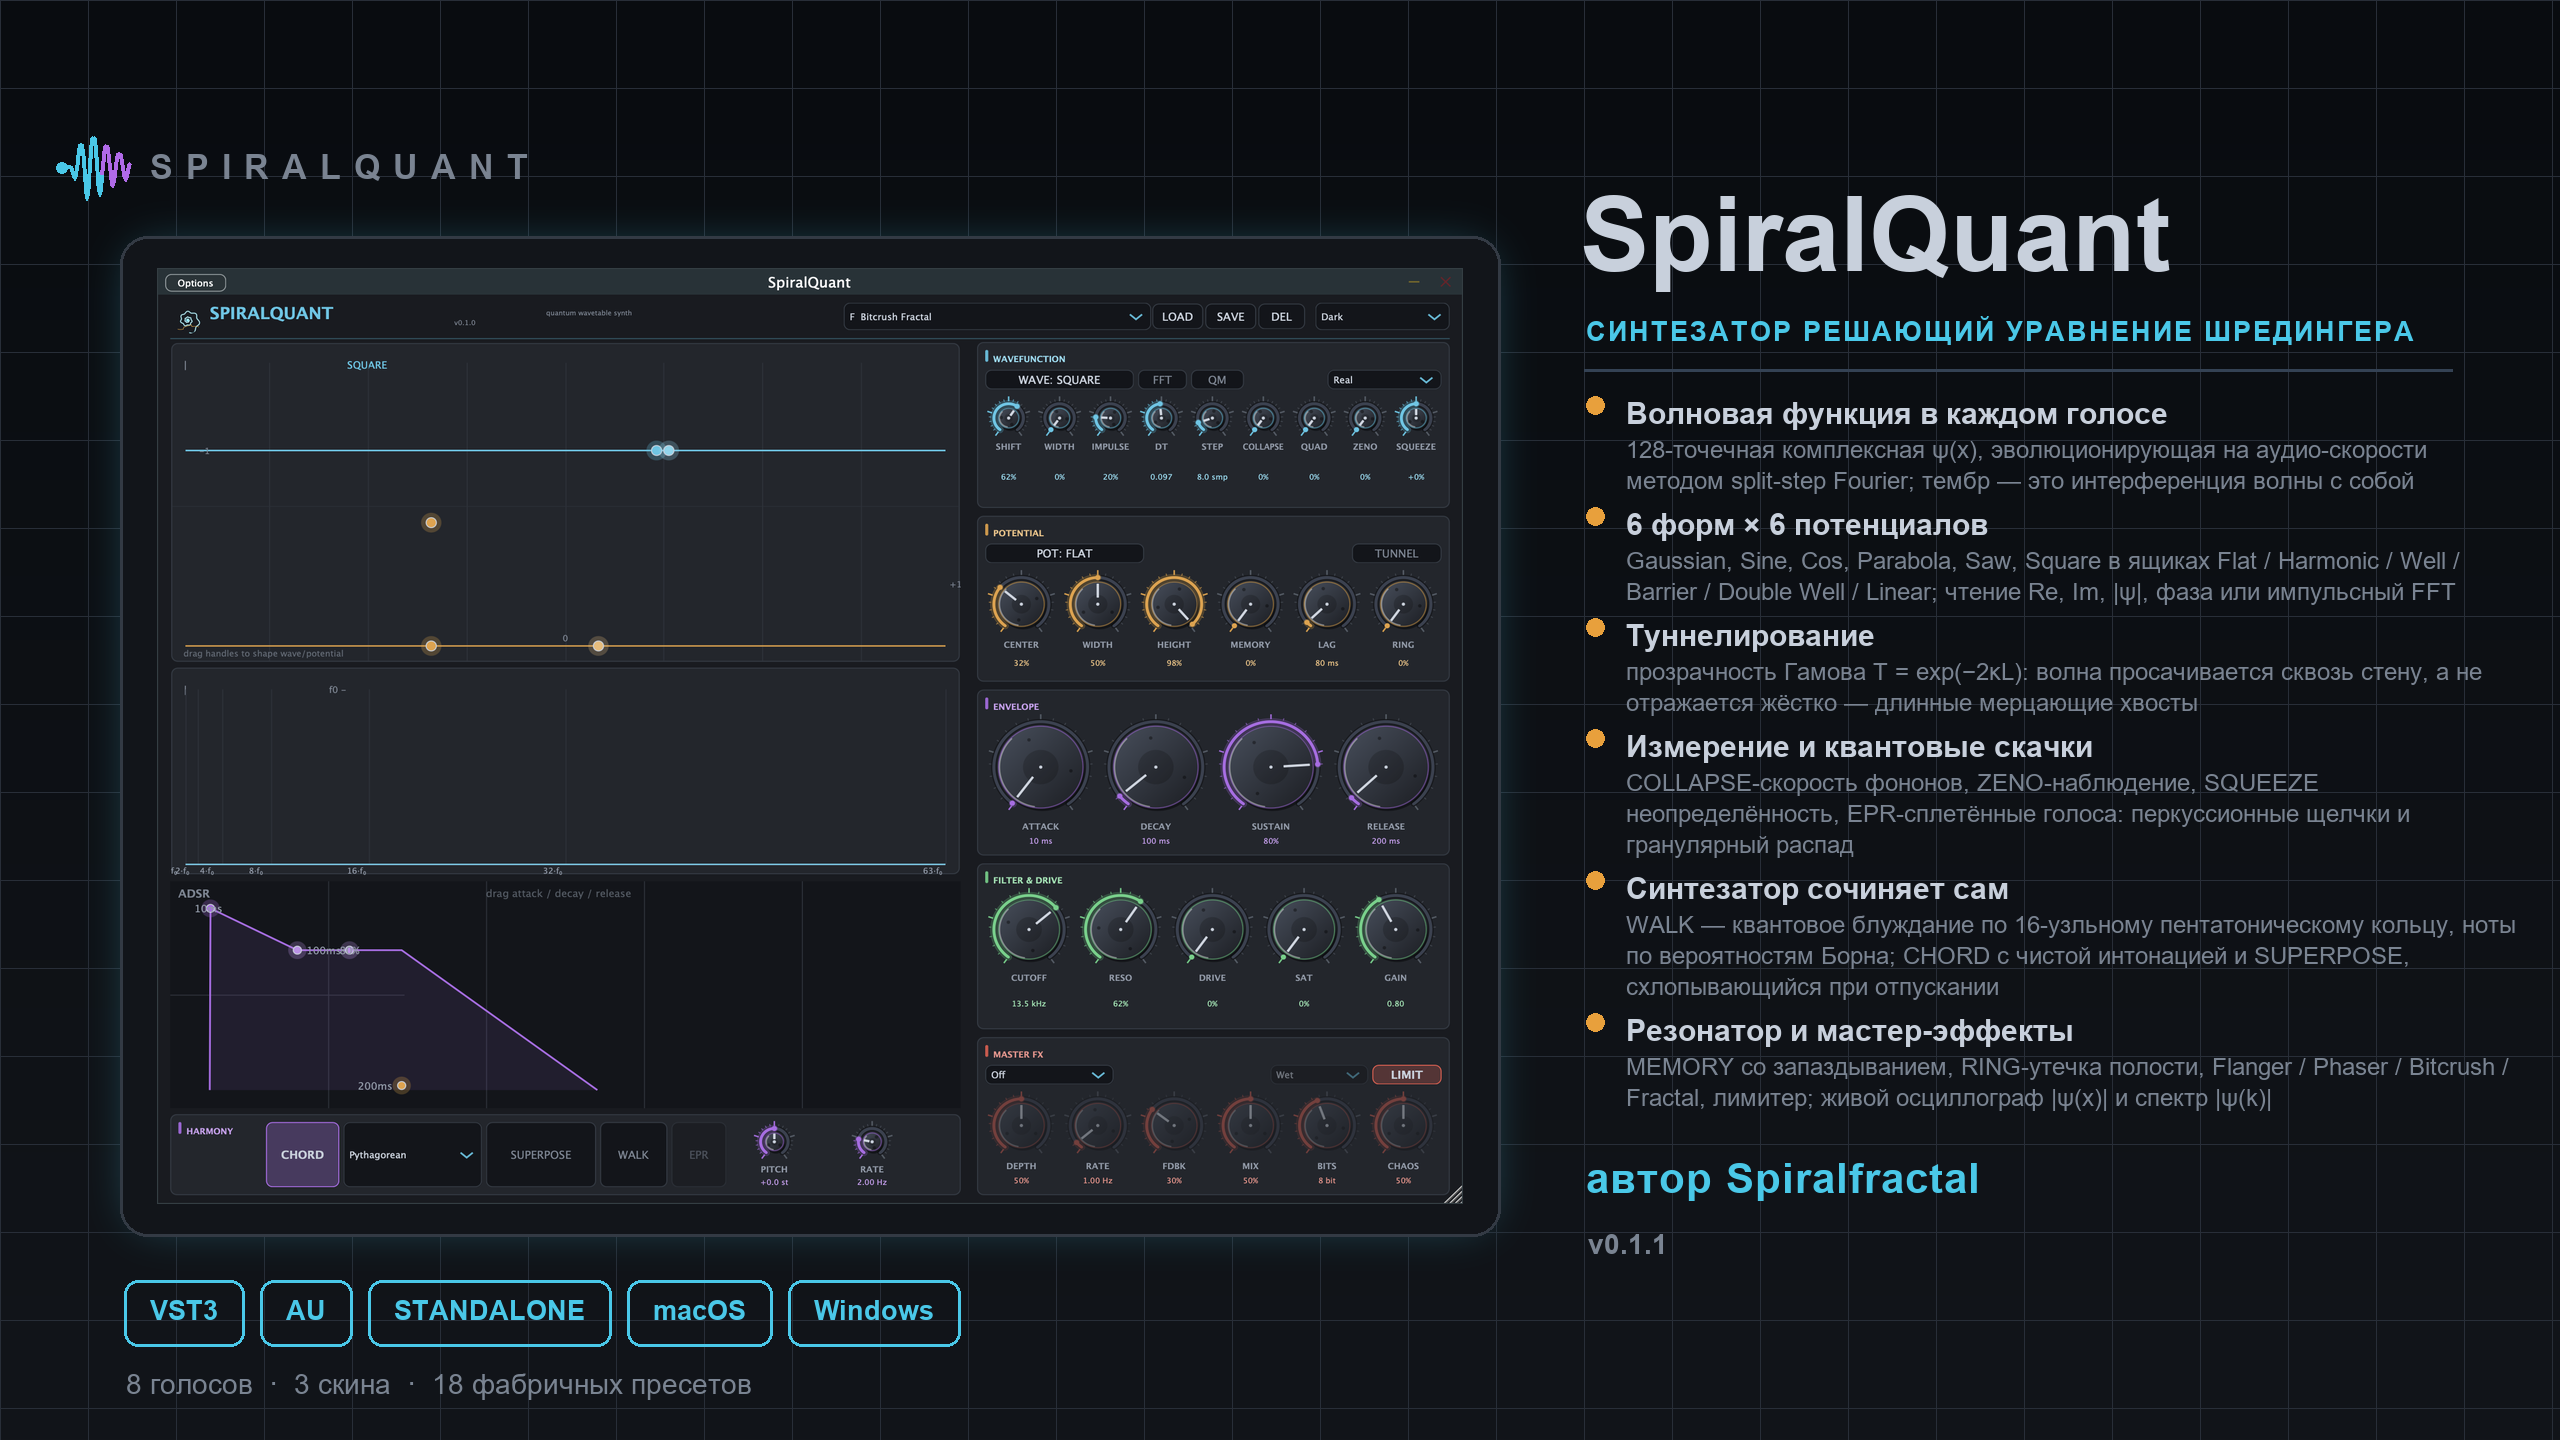
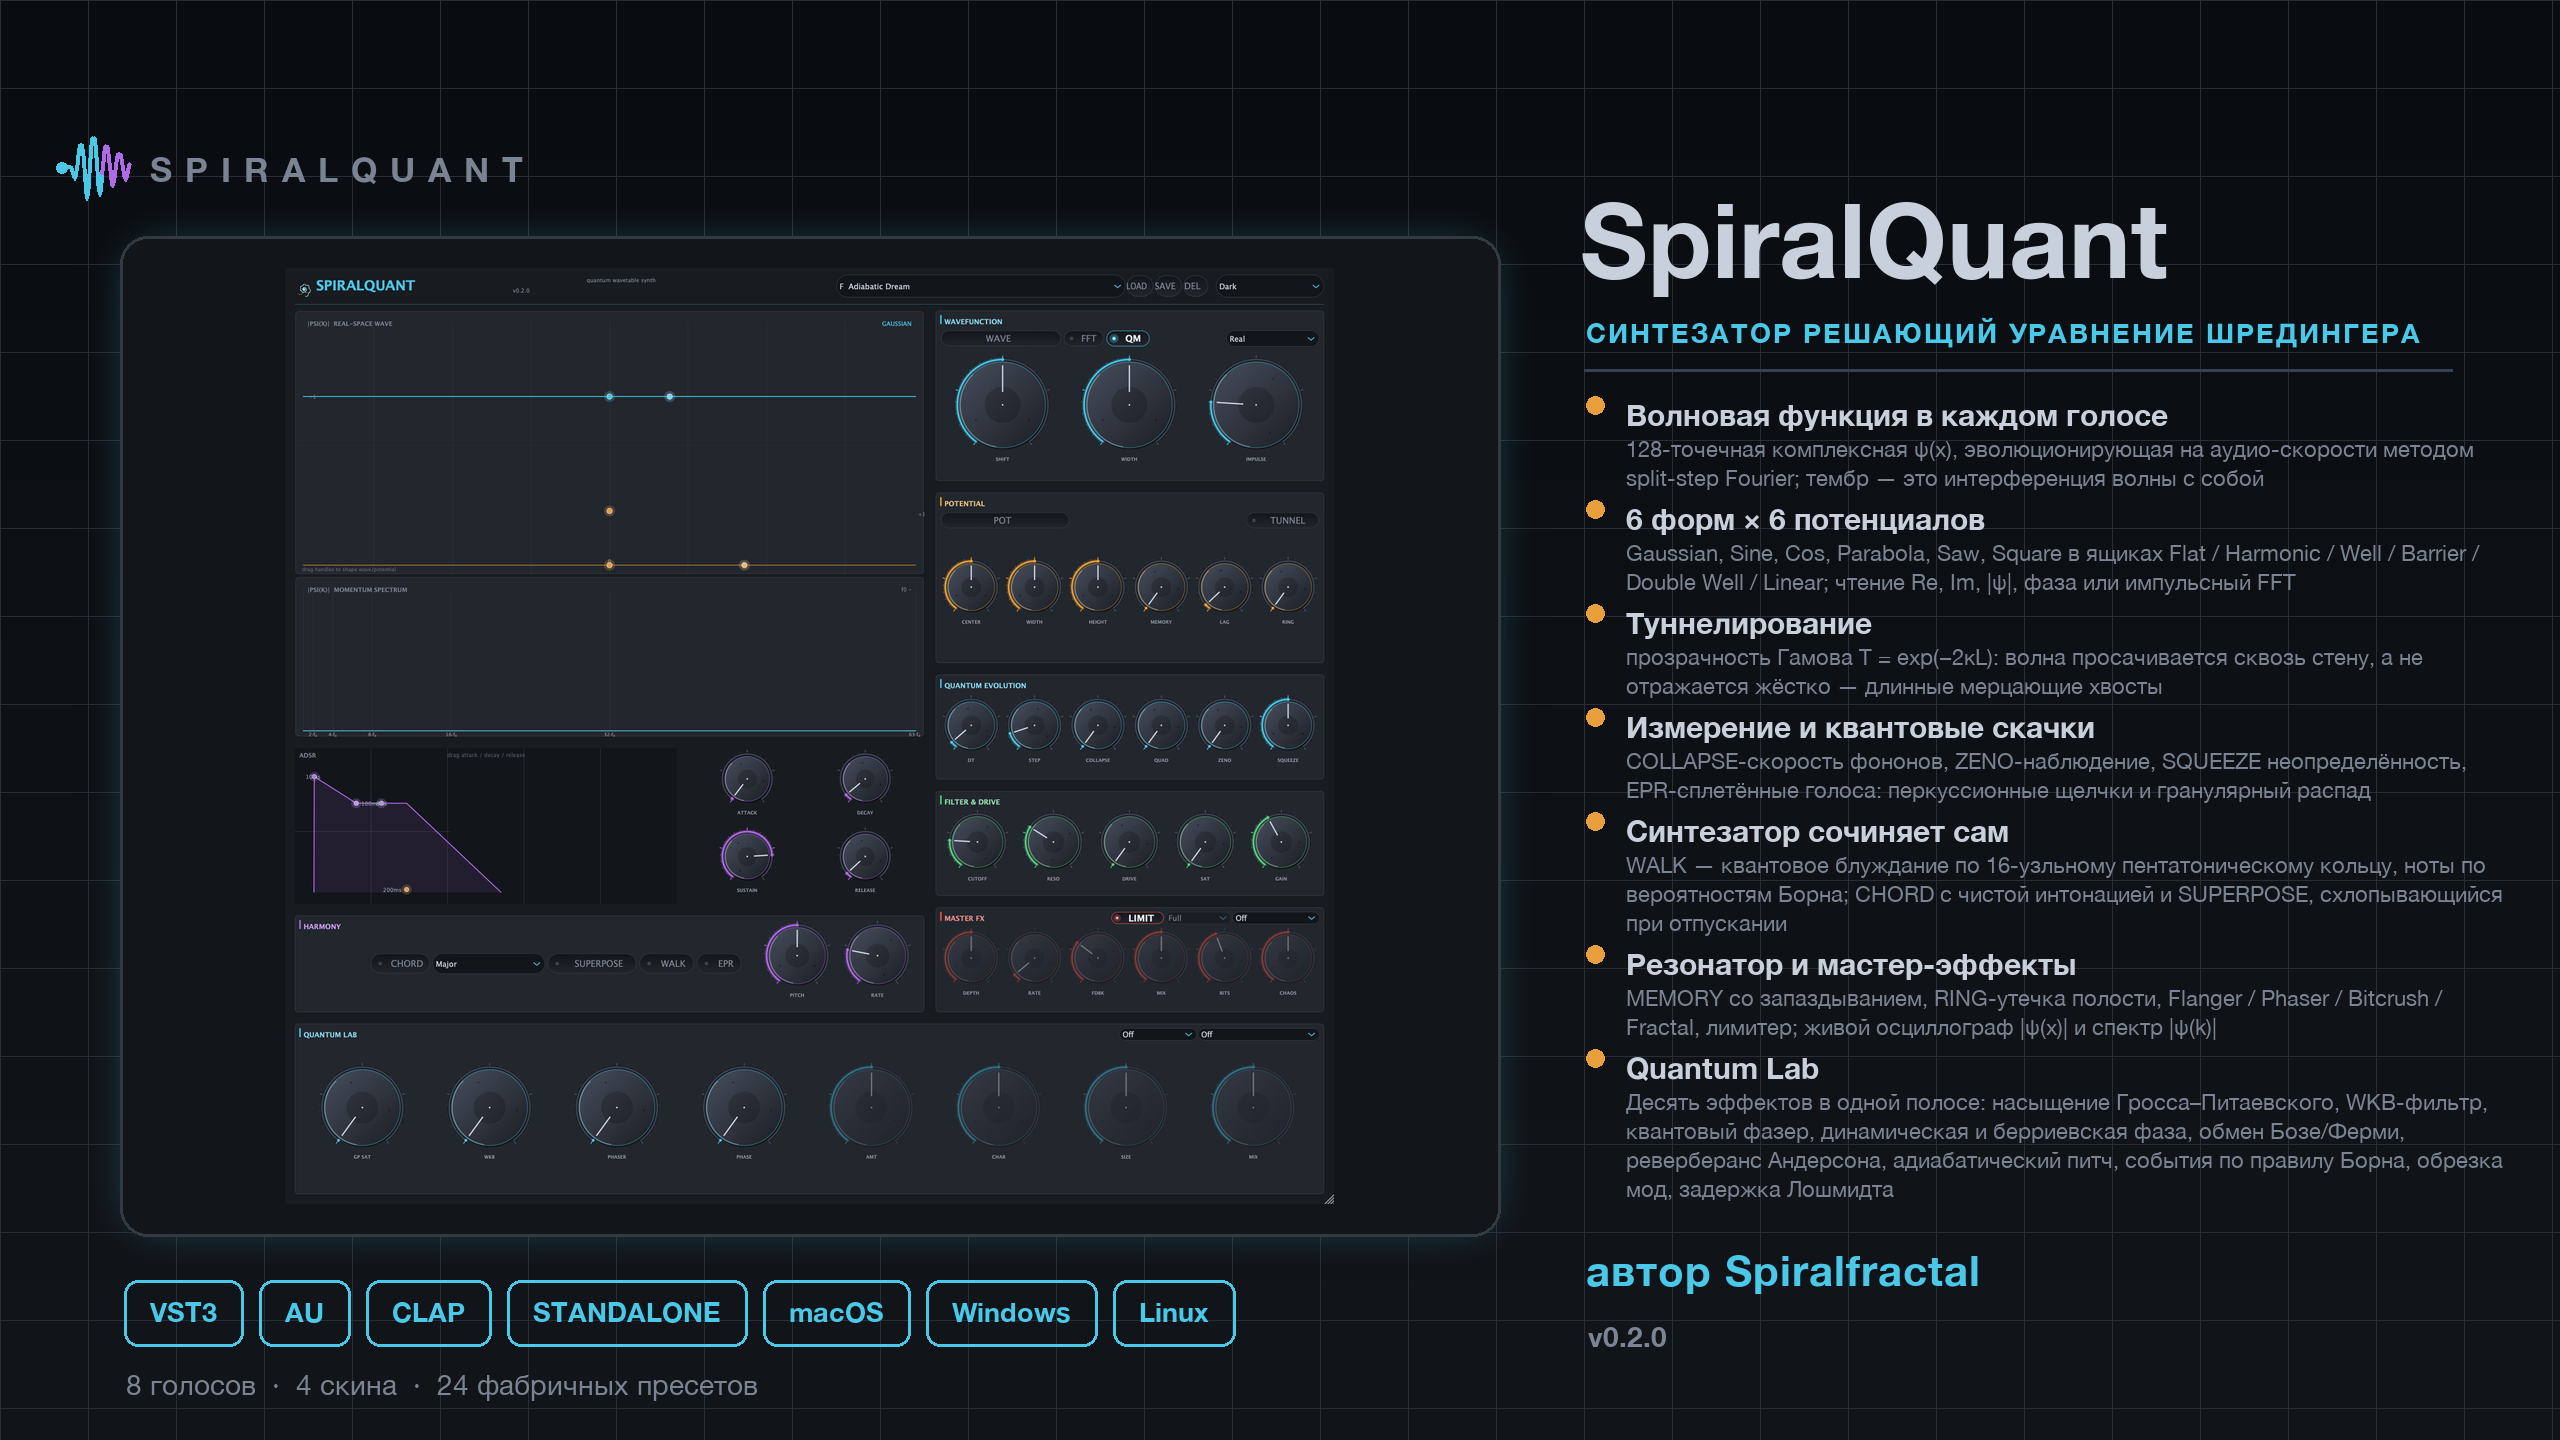
gui: fix JUCE 8 rect semantics in the scope headers, de-duplicate button labels, stop the spectrum ticks from colliding
- JUCE 8's removeFromTop/removeFromLeft return the REMOVED strip, so the
  |psi(x)| and |psi(k)| panel titles were drawn into a 10x20 sliver and the
  wave/f0 names sat on the left instead of the right.
- drawPill already draws the button label; JUCE drew it a second time on top,
  which read as doubled, blurry text on every chip.
- The harmonic ticks under the momentum spectrum overlapped (1-f0 vs 2-f0) and
  the last one was clipped; each is now centred on its tick and skipped if it
  would still collide.
- Cards: 0.2.0 copy, the Quantum Lab feature, CLAP/Linux chips, and the
  byline no longer collides with the last bullet.

diff --git a/docs/marketing/make_cards.py b/docs/marketing/make_cards.py
@@ -132,23 +132,27 @@ def width(s, f, tracking=0):
     return sum(d.textlength(c, font=f) + tracking for c in s) - tracking
 
 
-def bullets(img, items, x, y, w, f_head, f_sub, gap, dot_r=9):
-    d = ImageDraw.Draw(img)
+def bullets(img, items, x, y, w, f_head, f_sub, gap, dot_r=9, dry=False):
+    """Draws the bullet list; with img=None it only measures the height."""
+    d = None if img is None else ImageDraw.Draw(img)
     for head, sub in items:
-        d.ellipse([x, y + f_head.size * 0.30 - dot_r, x + dot_r * 2,
-                   y + f_head.size * 0.30 + dot_r], fill=POT)
-        text(d, (x + dot_r * 2 + 22, y), head, f_head, INK)
+        if d is not None:
+            d.ellipse([x, y + f_head.size * 0.30 - dot_r, x + dot_r * 2,
+                       y + f_head.size * 0.30 + dot_r], fill=POT)
+            text(d, (x + dot_r * 2 + 22, y), head, f_head, INK)
         yy = y + f_head.size + 10
         line = ""
         for word in sub.split():
             if width(line + " " + word, f_sub) > w - dot_r * 2 - 22:
-                text(d, (x + dot_r * 2 + 22, yy), line, f_sub, MUTED)
+                if d is not None:
+                    text(d, (x + dot_r * 2 + 22, yy), line, f_sub, MUTED)
                 yy += int(f_sub.size * 1.32)
                 line = word
             else:
                 line = (line + " " + word).strip()
         if line:
-            text(d, (x + dot_r * 2 + 22, yy), line, f_sub, MUTED)
+            if d is not None:
+                text(d, (x + dot_r * 2 + 22, yy), line, f_sub, MUTED)
             yy += f_sub.size
         y = yy + gap
     return y
@@ -199,9 +203,13 @@ COPY = {
             ("Cavity & master FX", "MEMORY lag resonator, RING cavity leak, Flanger / "
                                    "Phaser / Bitcrush / Fractal tonal tail, limiter; "
                                    "live |ψ(x)| scope and |ψ(k)| spectrum"),
+            ("Quantum Lab", "Ten research effects in one strip: GP saturation, a "
+                            "WKB tunnelling filter, a dispersive phaser, dynamical "
+                            "+ Berry phase, Bose/Fermi exchange, Anderson reverb, "
+                            "adiabatic pitch, Born-rule gates, mode clip, Loschmidt echo"),
         ],
-        "chips": ["VST3", "AU", "STANDALONE", "macOS", "Windows"],
-        "foot": "8 voices  ·  3 skins  ·  18 factory presets",
+        "chips": ["VST3", "AU", "CLAP", "STANDALONE", "macOS", "Windows", "Linux"],
+        "foot": "8 voices  ·  4 skins  ·  24 factory presets",
         "author": "by Spiralfractal",
     },
     "ru": {
@@ -230,14 +238,19 @@ COPY = {
                                            "полости, Flanger / Phaser / Bitcrush / "
                                            "Fractal, лимитер; живой осциллограф "
                                            "|ψ(x)| и спектр |ψ(k)|"),
+            ("Quantum Lab", "Десять эффектов в одной полосе: насыщение "
+                            "Гросса–Питаевского, WKB-фильтр, квантовый фазер, "
+                            "динамическая и берриевская фаза, обмен Бозе/Ферми, "
+                            "реверберанс Андерсона, адиабатический питч, события по "
+                            "правилу Борна, обрезка мод, задержка Лошмидта"),
         ],
-        "chips": ["VST3", "AU", "STANDALONE", "macOS", "Windows"],
-        "foot": "8 голосов  ·  3 скина  ·  18 фабричных пресетов",
+        "chips": ["VST3", "AU", "CLAP", "STANDALONE", "macOS", "Windows", "Linux"],
+        "foot": "8 голосов  ·  4 скина  ·  24 фабричных пресетов",
         "author": "автор Spiralfractal",
     },
 }
 
-VERSION = "v0.1.1"
+VERSION = "v0.2.0"
 
 
 def post(lang):
@@ -260,9 +273,19 @@ def post(lang):
     text(d, (x + 6, 316), c["tagline"], font(size=27, bold=True), WAVE, tracking=2)
     d.line([(x + 4, 370), (2452, 370)], fill=(52, 66, 84), width=3)
 
+    # Fit the bullet column: the Russian copy runs longer, so step the body
+    # text down a size until the byline still clears the last bullet.
+    body, gap = 24, 16
+    for body, gap in ((24, 16), (22, 13), (20, 11)):
+        end = bullets(None, c["bullets"], x + 6, 396, 930,
+                      font(size=30, bold=True), font(size=body), gap=gap)
+        if end + 34 + 78 <= 1400:
+            break
     y = bullets(img, c["bullets"], x + 6, 396, 930,
-                font(size=30, bold=True), font(size=24), gap=16)
-    y = min(y + 30, 1216)
+                font(size=30, bold=True), font(size=body), gap=gap)
+    # Seven bullets can reach the bottom of the column: keep the byline clear
+    # of the last one instead of clamping it up into the text.
+    y = min(y + 34, 1252)
     text(d, (x + 6, y), c["author"], font(size=42, bold=True), WAVE, tracking=1)
     text(d, (x + 8, y + 74), VERSION, font(size=28, bold=True), MUTED)
     return img

diff --git a/Source/gui/QuantumCanvas.cpp b/Source/gui/QuantumCanvas.cpp
@@ -103,16 +103,20 @@ void QuantumCanvas::paint (juce::Graphics& g)
 
     // ---- |psi(x)| panel -------------------------------------------------
     drawSkinnedPanel (g, wp, pal, "", pal.wave, fs);
+    // JUCE 8: removeFromTop returns the REMOVED strip - that strip is the
+    // title row, so the panel title sits on the left of it and the wave name
+    // on the right of it.
+    const auto waveStrip = wp.reduced (12).removeFromTop (20);
     g.setColour (pal.textDim);
     g.setFont (Skins::font (fs, juce::Font::bold));
-    g.drawText ("|PSI(X)|  REAL-SPACE WAVE", wp.reduced (12).removeFromTop (20).removeFromLeft (10),
+    g.drawText ("|PSI(X)|  REAL-SPACE WAVE", waveStrip.reduced (10.0f, 0.0f),
                 juce::Justification::centredLeft, false);
     const int wt = juce::roundToInt (raw ("waveType")->load());
     if (auto* p = apvts().getParameter ("waveType"))
     {
         g.setColour (pal.wave);
         g.setFont (Skins::font (fs));
-        g.drawText (p->getText (wt, 0).toUpperCase(), wp.reduced (12).removeFromTop (20).withWidth (200),
+        g.drawText (p->getText (wt, 0).toUpperCase(), waveStrip.reduced (10.0f, 0.0f),
                     juce::Justification::centredRight, false);
     }
 
@@ -203,9 +207,10 @@ void QuantumCanvas::paint (juce::Graphics& g)
     // ---- |psi(k)| spectrum panel -----------------------------------------
     const bool fftOn = pShowFFT->load() > 0.5f;
     drawSkinnedPanel (g, sp, pal, "", pal.harmony, fs);
+    const auto specStrip = sp.reduced (12).removeFromTop (20);
     g.setColour (fftOn ? pal.accent : pal.textDim);
     g.setFont (Skins::font (fs, juce::Font::bold));
-    g.drawText ("|PSI(K)|  MOMENTUM SPECTRUM", sp.reduced (12).removeFromTop (20).removeFromLeft (10),
+    g.drawText ("|PSI(K)|  MOMENTUM SPECTRUM", specStrip.reduced (10.0f, 0.0f),
                 juce::Justification::centredLeft, false);
     if (fftOn)
     {
@@ -217,7 +222,7 @@ void QuantumCanvas::paint (juce::Graphics& g)
     const juce::String f0Text = f0 > 0.0f ? juce::String (f0, 0) + " Hz" : juce::String ("-");
     g.setColour (pal.textDim);
     g.setFont (Skins::font (fs * 0.9f));
-    g.drawText ("f0 " + f0Text, sp.reduced (12).removeFromTop (20).withWidth (160),
+    g.drawText ("f0 " + f0Text, specStrip.reduced (10.0f, 0.0f),
                 juce::Justification::centredRight, false);
 
     const juce::Rectangle<float> sPlot = sp.reduced (14.0f, 24.0f).withTop (sp.getY() + 22.0f).withBottom (sp.getBottom() - 10.0f);
@@ -239,18 +244,32 @@ void QuantumCanvas::paint (juce::Graphics& g)
         }
     }
 
-    // vertical harmonic grid with bin + Hz labels
+    // vertical harmonic grid with bin labels
+    // The first two harmonics sit only a couple of bins apart, so every label
+    // is centred on its own tick and one that would still collide with the
+    // previous label is left out instead of being drawn on top of it.
+    g.setFont (Skins::font (fs * 0.8f));
+    float lastLabelRight = -1.0e9f;
     for (int b : { 1, 2, 4, 8, 16, 32, 63 })
     {
         const float x = sPlot.getX() + sPlot.getWidth() * (float) (b - 1) / (float) (bins - 2);
         g.setColour (pal.gridLine);
         g.drawVerticalLine ((int) x, sPlot.getY(), sPlot.getBottom());
+
+        if (b == 1)
+            continue;                    // the fundamental is named in the header
+
         g.setColour (pal.textTick);
-        const juce::String label = f0 > 0.0f
-            ? juce::String (b) + "\u00b7f\u2080  " + juce::String (b * f0, 0) + "Hz"
-            : juce::String (b) + "\u00b7f\u2080";
-        g.drawText (label, juce::Rectangle<float> (x - 22.0f, sPlot.getBottom() + 1.0f, 60.0f, 10.0f),
+        const juce::String label = juce::String (b) + "\u00b7f\u2080";
+        const float tw = juce::GlyphArrangement::getStringWidth (g.getCurrentFont(), label);
+        float lx = x - tw * 0.5f;
+        lx = juce::jmax (sPlot.getX() - 6.0f, juce::jmin (lx, sp.getRight() - tw - 6.0f));
+        if (lx < lastLabelRight + 8.0f)
+            continue;                    // too close to the previous label
+
+        g.drawText (label, juce::Rectangle<float> (lx, sPlot.getBottom() + 1.0f, tw, 10.0f),
                     juce::Justification::centredLeft, false);
+        lastLabelRight = lx + tw;
     }
 
     // spectrum curve

diff --git a/Source/gui/DarkLookAndFeel.h b/Source/gui/DarkLookAndFeel.h
@@ -163,6 +163,12 @@ public:
                   Skins::fontButton * uiScale, button.getButtonText(), on);
     }
 
+    // drawPill already renders the label; JUCE would draw the same string a
+    // second time on top of it, which reads as doubled, blurry text.
+    void drawButtonText (juce::Graphics&, juce::TextButton&, bool, bool) override
+    {
+    }
+
     void drawToggleButton (juce::Graphics& g, juce::ToggleButton& button, bool, bool) override
     {
         using namespace juce;
